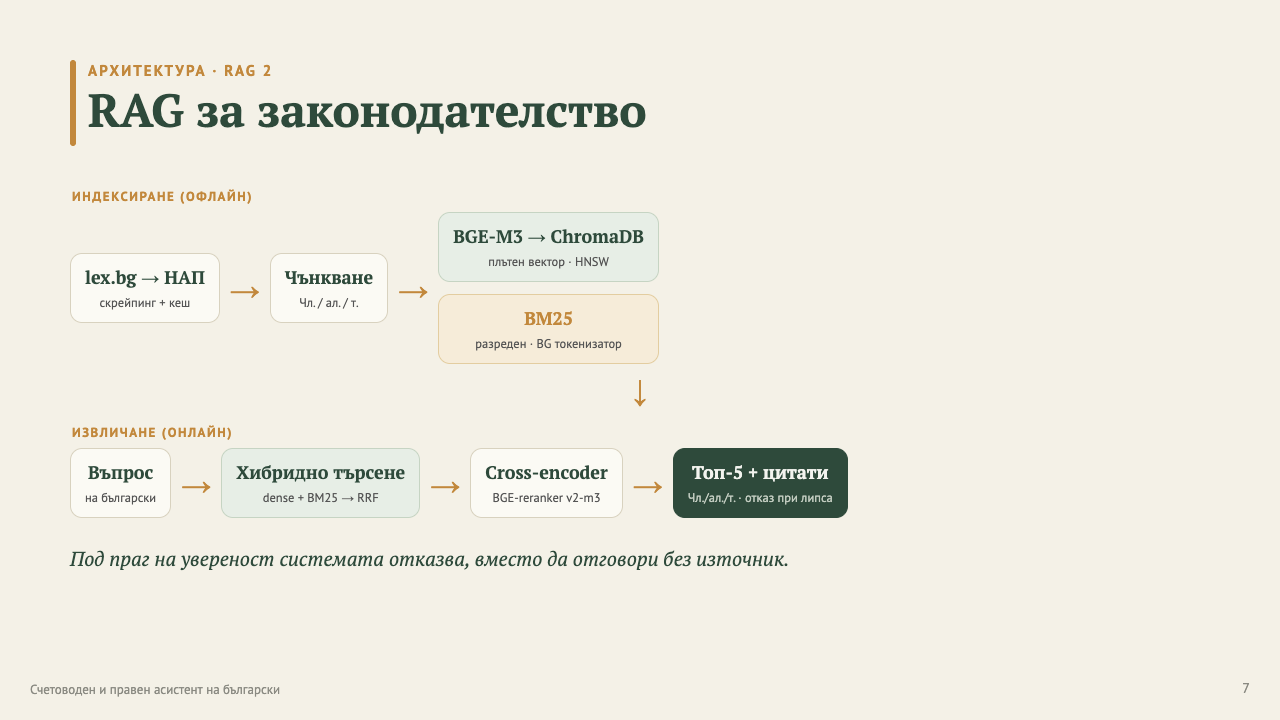
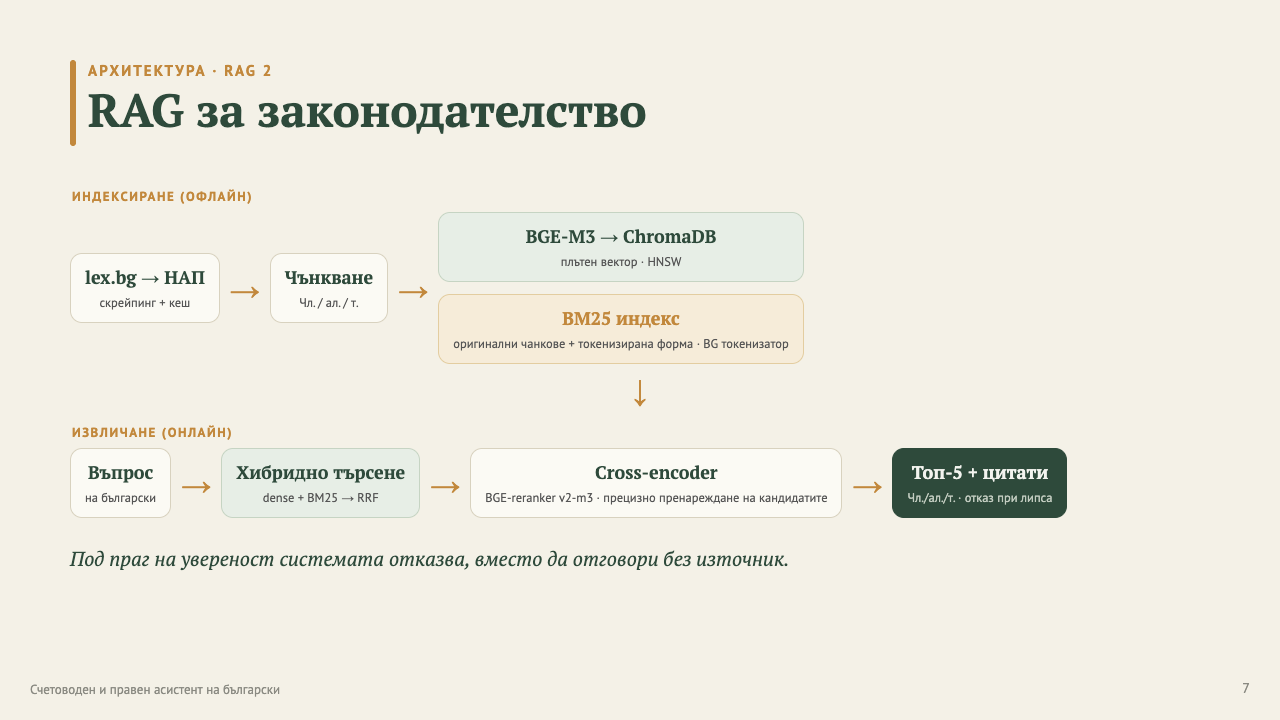
Eval slide: RAG 1 agent + RAG 2 laws results into deck.md; export pptx
Port the laws-RAG numbers (recall@8 66.0%, MRR 0.4873, Hit@1 38.0%, 33/50)
and RAG 2 detail-slide captions from deck.html into deck.md (the source), so
re-rendering no longer overwrites them. RAG 1 card now shows the Phase 2
tool-calling agent results (routing 90%, refusal 100%, compliance 50%).

Changed region(s): [[0.375, 0.6111, 0.8438, 0.7333], [0.3438, 0.4278, 0.625, 0.4889], [0.3438, 0.3056, 0.5625, 0.3667]]

diff --git a/presentation/deck.md b/presentation/deck.md
@@ -202,6 +202,12 @@ style: |
   .mrow .val.gold { color: var(--gold); }
   .evaltotal { margin-top: 10px; text-align: right; font-family: var(--serif); font-weight: 700; color: var(--green); font-size: 19px; }
   .evalcard.r2 .evaltotal { color: var(--gold); }
+  .agentrow { display: flex; gap: 18px; margin-top: 14px; }
+  .stat { flex: 1; border: 1.5px solid #D8D2BF; background: #FBFAF4; border-radius: 12px; padding: 10px 14px; text-align: center; }
+  .stat .num { font-family: var(--serif); font-weight: 700; font-size: 28px; color: var(--green); line-height: 1.1; }
+  .stat .num.warn { color: var(--gold); }
+  .stat .frac { font-size: 14px; color: #888; }
+  .stat .cap { font-size: 13.5px; color: #555; margin-top: 2px; }
 
   /* ---------- 2-col cards (value) ---------- */
   .grid2 { display: grid; grid-template-columns: 1fr 1fr; gap: 18px 22px; margin-top: 10px; }
@@ -380,7 +386,7 @@ style: |
   <div class="arrow">→</div>
   <div class="col">
     <div class="box sm sage"><b>BGE-M3 → ChromaDB</b><small>плътен вектор · HNSW</small></div>
-    <div class="box sm gold"><b>BM25</b><small>разреден · BG токенизатор</small></div>
+    <div class="box sm gold"><b>BM25 индекс</b><small>оригинални чанкове + токенизирана форма · BG токенизатор</small></div>
   </div>
 </div>
 
@@ -392,7 +398,7 @@ style: |
   <div class="arrow">→</div>
   <div class="box sm sage"><b>Хибридно търсене</b><small>dense + BM25 → RRF</small></div>
   <div class="arrow">→</div>
-  <div class="box sm"><b>Cross-encoder</b><small>BGE-reranker v2-m3</small></div>
+  <div class="box sm"><b>Cross-encoder</b><small>BGE-reranker v2-m3 · прецизно пренареждане на кандидатите</small></div>
   <div class="arrow">→</div>
   <div class="box sm dark"><b>Топ-5 + цитати</b><small>Чл./ал./т. · отказ при липса</small></div>
 </div>
@@ -410,26 +416,22 @@ style: |
 <div class="evalgrid">
   <div class="evalcard r1">
     <h3>RAG 1 — Фактури</h3>
-    <div class="sub2">детерминирани инструменти · 46 случая · без LLM</div>
-    <div class="mrow"><span class="lbl">Търсене по номер</span><span class="val">100%</span></div>
-    <div class="mrow"><span class="lbl">Филтри (recall + брой)</span><span class="val">100%</span></div>
-    <div class="mrow"><span class="lbl">Агрегации (±0.01 лв.)</span><span class="val">100%</span></div>
-    <div class="mrow"><span class="lbl">Семантично (recall@10 / MRR)</span><span class="val">100% / 1.0</span></div>
-    <div class="mrow"><span class="lbl">Тренд / сравнение</span><span class="val">100%</span></div>
-    <div class="evaltotal">Общо · 46/46 = 100%</div>
+    <div class="sub2">tool-calling агент · claude-haiku-4-5 · 56 въпроса</div>
+    <div class="mrow"><span class="lbl">Маршрутизиране (recall)</span><span class="val">90% · 47/52</span></div>
+    <div class="mrow"><span class="lbl">Отказ при извън-обхват (recall)</span><span class="val">100% · 4/4</span></div>
+    <div class="mrow"><span class="lbl">Съответствие — верен член + цитат</span><span class="val gold">50% · 3/6</span></div>
+    <div class="evaltotal">верен инструмент → верен отговор</div>
   </div>
   <div class="evalcard r2">
     <h3>RAG 2 — Закони</h3>
-    <div class="sub2">извличане · P / R / MRR@8 · 16 случая</div>
-    <div class="mrow"><span class="lbl">Намерен верен член (recall@8)</span><span class="val gold">—</span></div>
-    <div class="mrow"><span class="lbl">Среден MRR</span><span class="val gold">—</span></div>
-    <div class="mrow"><span class="lbl">Точност@8 (precision)</span><span class="val gold">—</span></div>
-    <div class="mrow"><span class="lbl">Покритие (ЗДДС · ЗКПО · ЗДДФЛ · КСО)</span><span class="val gold">—</span></div>
-    <div class="evaltotal">Общо · —/16</div>
+    <div class="sub2">извличане · Recall / MRR / Hit@1 · 50 случая</div>
+    <div class="mrow"><span class="lbl">Намерен верен член (recall@8)</span><span class="val gold">66.0%</span></div>
+    <div class="mrow"><span class="lbl">Среден MRR</span><span class="val gold">0.4873</span></div>
+    <div class="mrow"><span class="lbl">Първи резултат е верен (Hit@1)</span><span class="val gold">38.0%</span></div>
+    <div class="mrow"><span class="lbl">ЗДДС 78.6% · ЗКПО 58.3% · ЗДДФЛ 72.7% · КСО 53.8%</span><span class="val gold">покритие</span></div>
+    <div class="evaltotal">Общо · 33/50</div>
   </div>
 </div>
-
-<div class="lead-italic">Синтетичен, възпроизводим набор; всяка стойност се смята детерминирано. Phase 2 (агент): маршрутизиране · отказ · цитиране на член — отделна оценка.</div>
 
 ---
 